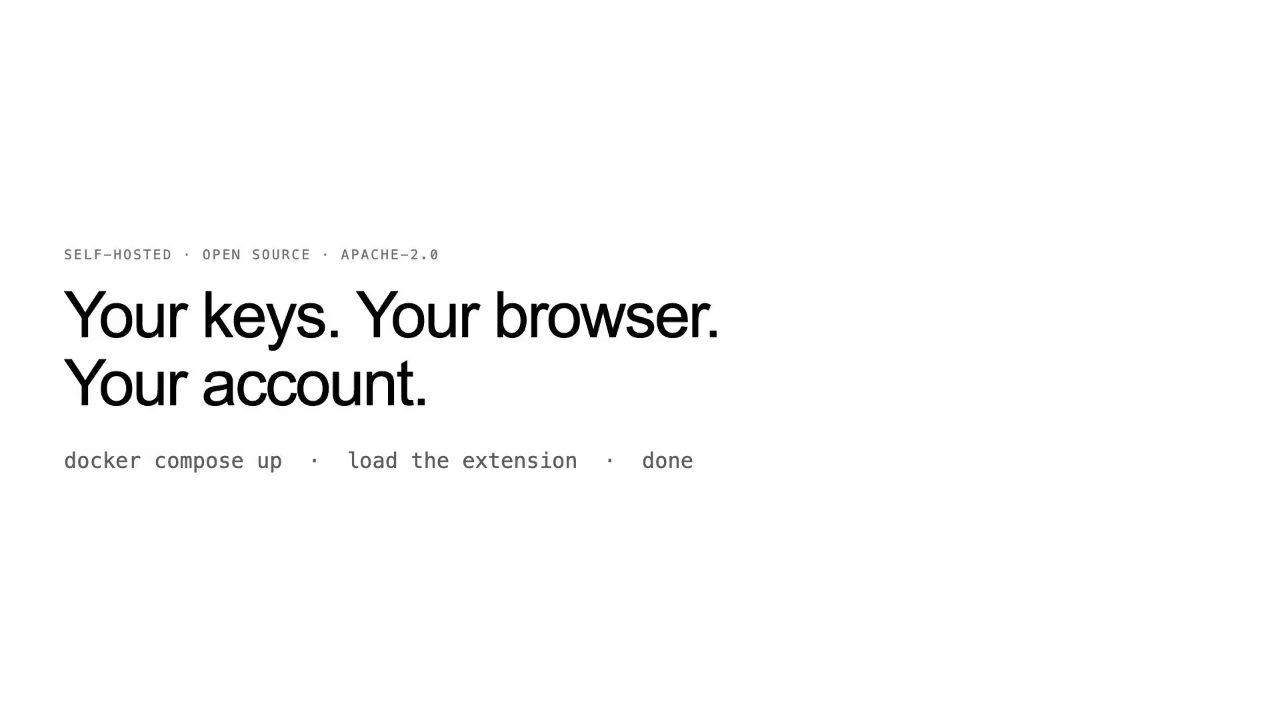
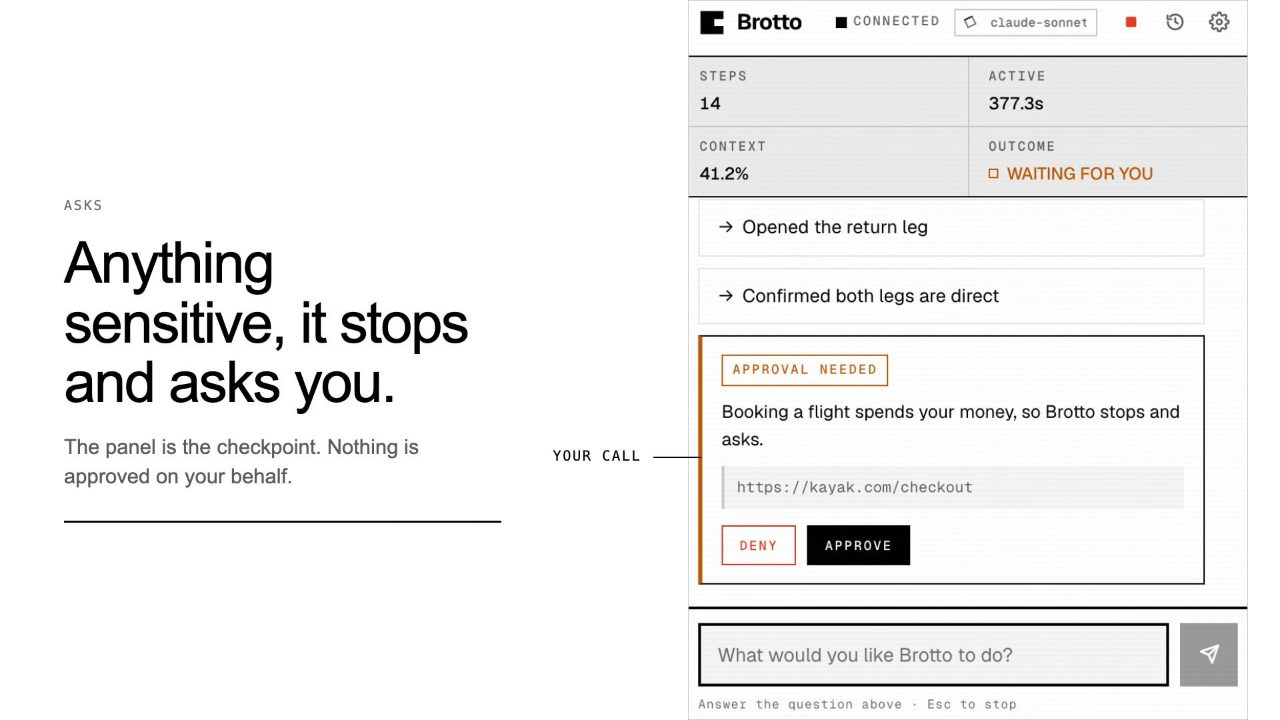
Widen the landing page, point the CTA at the repo, and pick a real poster

diff --git a/assets/site.css b/assets/site.css
@@ -211,17 +211,18 @@ footer a:hover { color: var(--ink); border-bottom-color: var(--ink); }
    stays one band however narrow it gets. */
 .footer-note { margin-left: auto; color: var(--ink-3); }
 
-/* The landing page runs wider than the prose measure: the panel mock and the
-   screenshot grid both lose too much at 680px. Prose blocks inside it keep
-   their own max-width, so the text column does not stretch with the layout. */
-.page--wide { max-width: 900px; }
-.page--wide p, .page--wide .section-note { max-width: 62ch; }
-
 /* ─── Post ──────────────────────────────────────────────────────────────
    Title and meta sit above a hairline, then the prose column. The rule under
    the meta is the panel's card-header rule doing structural work: it says
    "the header ended" without a box or a shadow. */
 article, .page { max-width: var(--measure); margin: 0 auto; }
+
+/* The landing page runs wider than the prose measure: the panel mock and the
+   screenshot grid both lose too much at 680px. Prose blocks inside keep their
+   own measure, so the text column does not stretch with the layout. Declared
+   after `.page` on purpose — same specificity, so source order decides. */
+.page--wide { max-width: 900px; }
+.page--wide p { max-width: 62ch; }
 
 .post-head { padding: 56px 0 28px; border-bottom: 1px solid var(--rule); margin-bottom: 40px; }
 .post-title {

diff --git a/_layouts/default.html b/_layouts/default.html
@@ -44,9 +44,9 @@
       <a class="nav-link label" href="/#writing">Writing</a>
       <a class="nav-link label" href="https://github.com/suryanshgupta9933/Brotto">GitHub</a>
       <!-- Swap for chromewebstore.google.com/detail/brotto/<id> once the listing
-           is published. The search URL works today but will also match other
-           extensions with the same name. -->
-      <a class="nav-cta label" href="https://chromewebstore.google.com/search/brotto">Get Brotto</a>
+           publishes. Until then the CTA points at the repository, which is
+           the only install path that exists and one we control. -->
+      <a class="nav-cta label" href="https://github.com/suryanshgupta9933/Brotto">Get Brotto</a>
     </nav>
   </header>
 
@@ -85,7 +85,6 @@
     <a class="label" href="/#writing">Writing</a>
     <a class="label" href="https://github.com/suryanshgupta9933/Brotto">Source</a>
     <a class="label" href="https://github.com/suryanshgupta9933/Brotto/discussions">Feedback</a>
-    <a class="label" href="https://chromewebstore.google.com/search/brotto">Chrome Web Store</a>
     <span class="footer-note label">Apache 2.0 · Written by Suryansh Gupta</span>
   </footer>
 </body>

diff --git a/index.md b/index.md
@@ -15,11 +15,12 @@ description: A browser agent that works in the Chrome tab you are already signed
   </p>
   <div class="actions">
     <a class="btn" href="https://github.com/suryanshgupta9933/Brotto">Get Brotto</a>
-    <!-- Swap for chromewebstore.google.com/detail/brotto/<id> once the listing
-         is published. The search URL works today but will also match other
-         extensions with the same name. -->
-    <a class="btn btn--ghost" href="https://chromewebstore.google.com/search/brotto">Chrome Web Store</a>
     <a class="btn btn--ghost" href="https://github.com/suryanshgupta9933/Brotto/discussions">Feedback</a>
+    <!-- The store listing is still under review, so there is no install target
+         to point at yet. When it publishes, this becomes
+         chromewebstore.google.com/detail/brotto/<id> and takes the hero's
+         primary slot. A search URL must not stand in for it: chromewebstore
+         .google.com/search/brotto also matches extensions we do not control. -->
   </div>
 </div>
 
